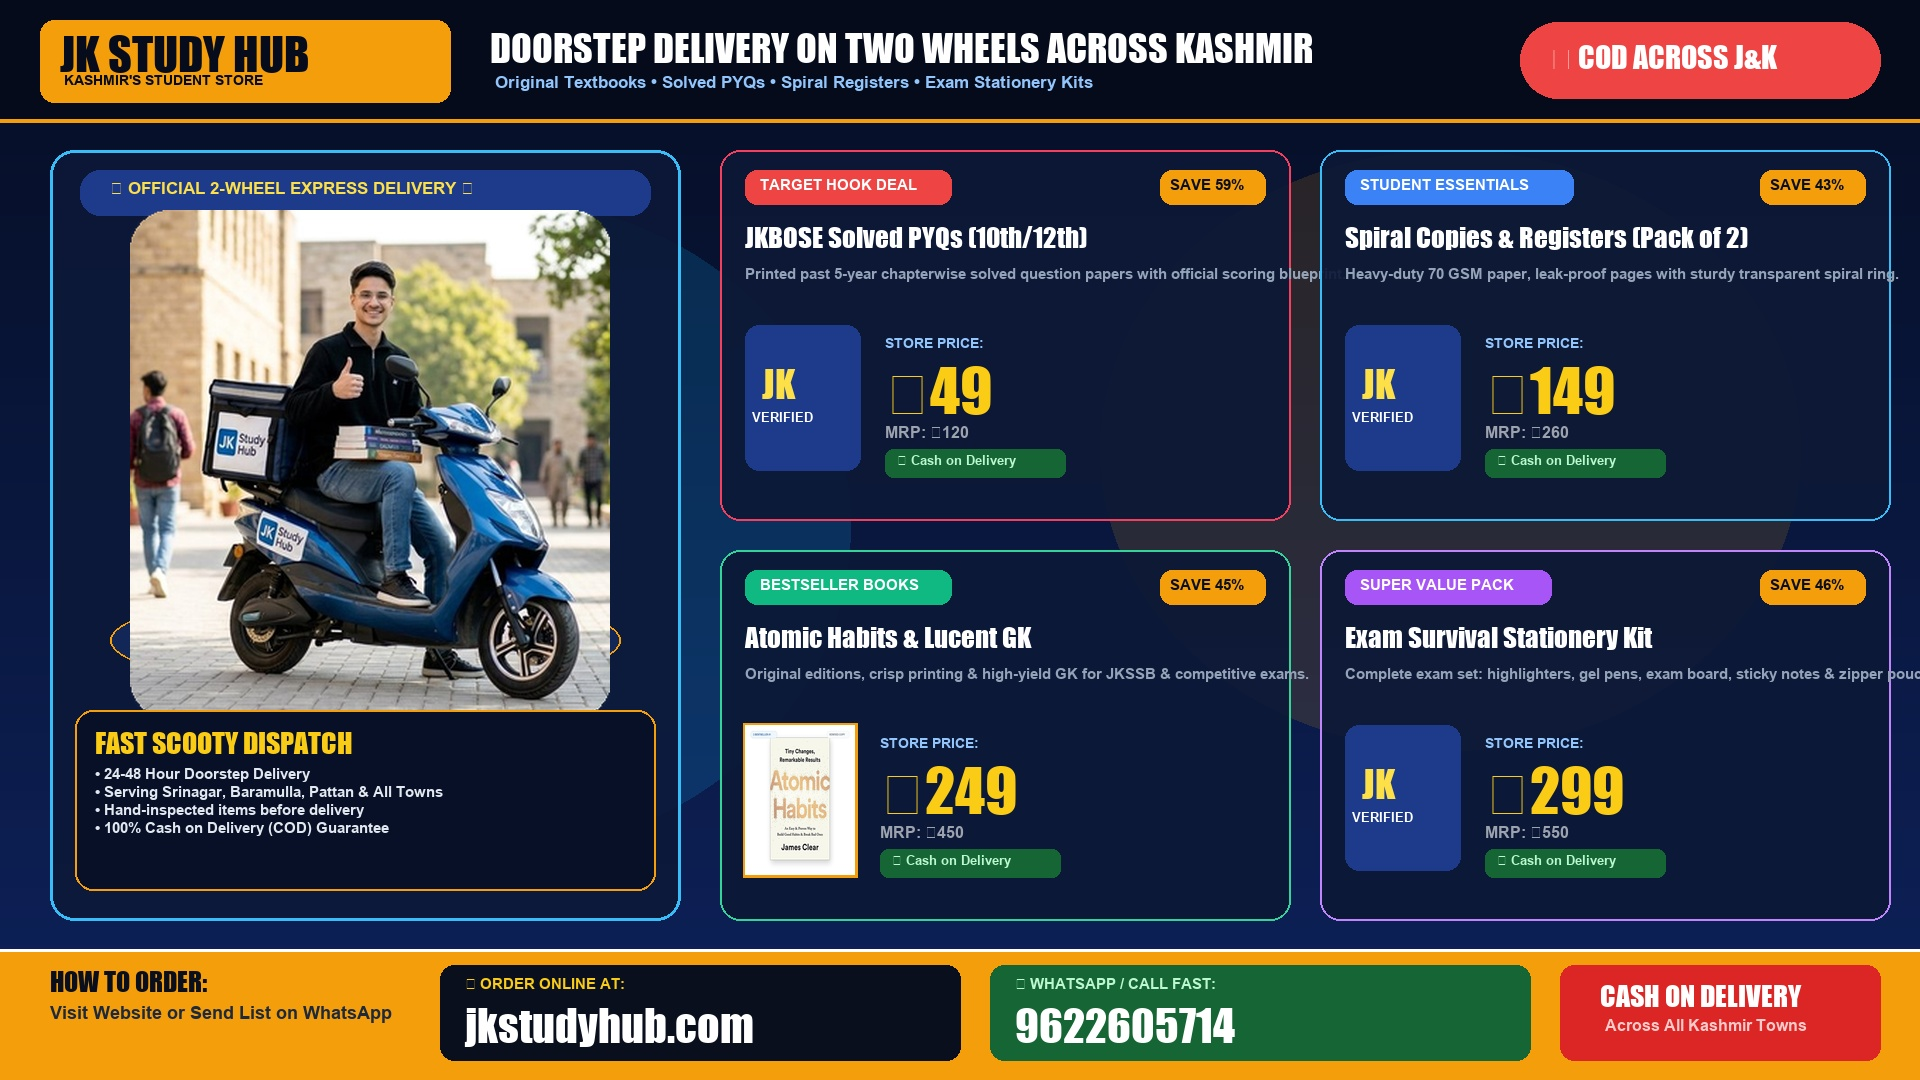
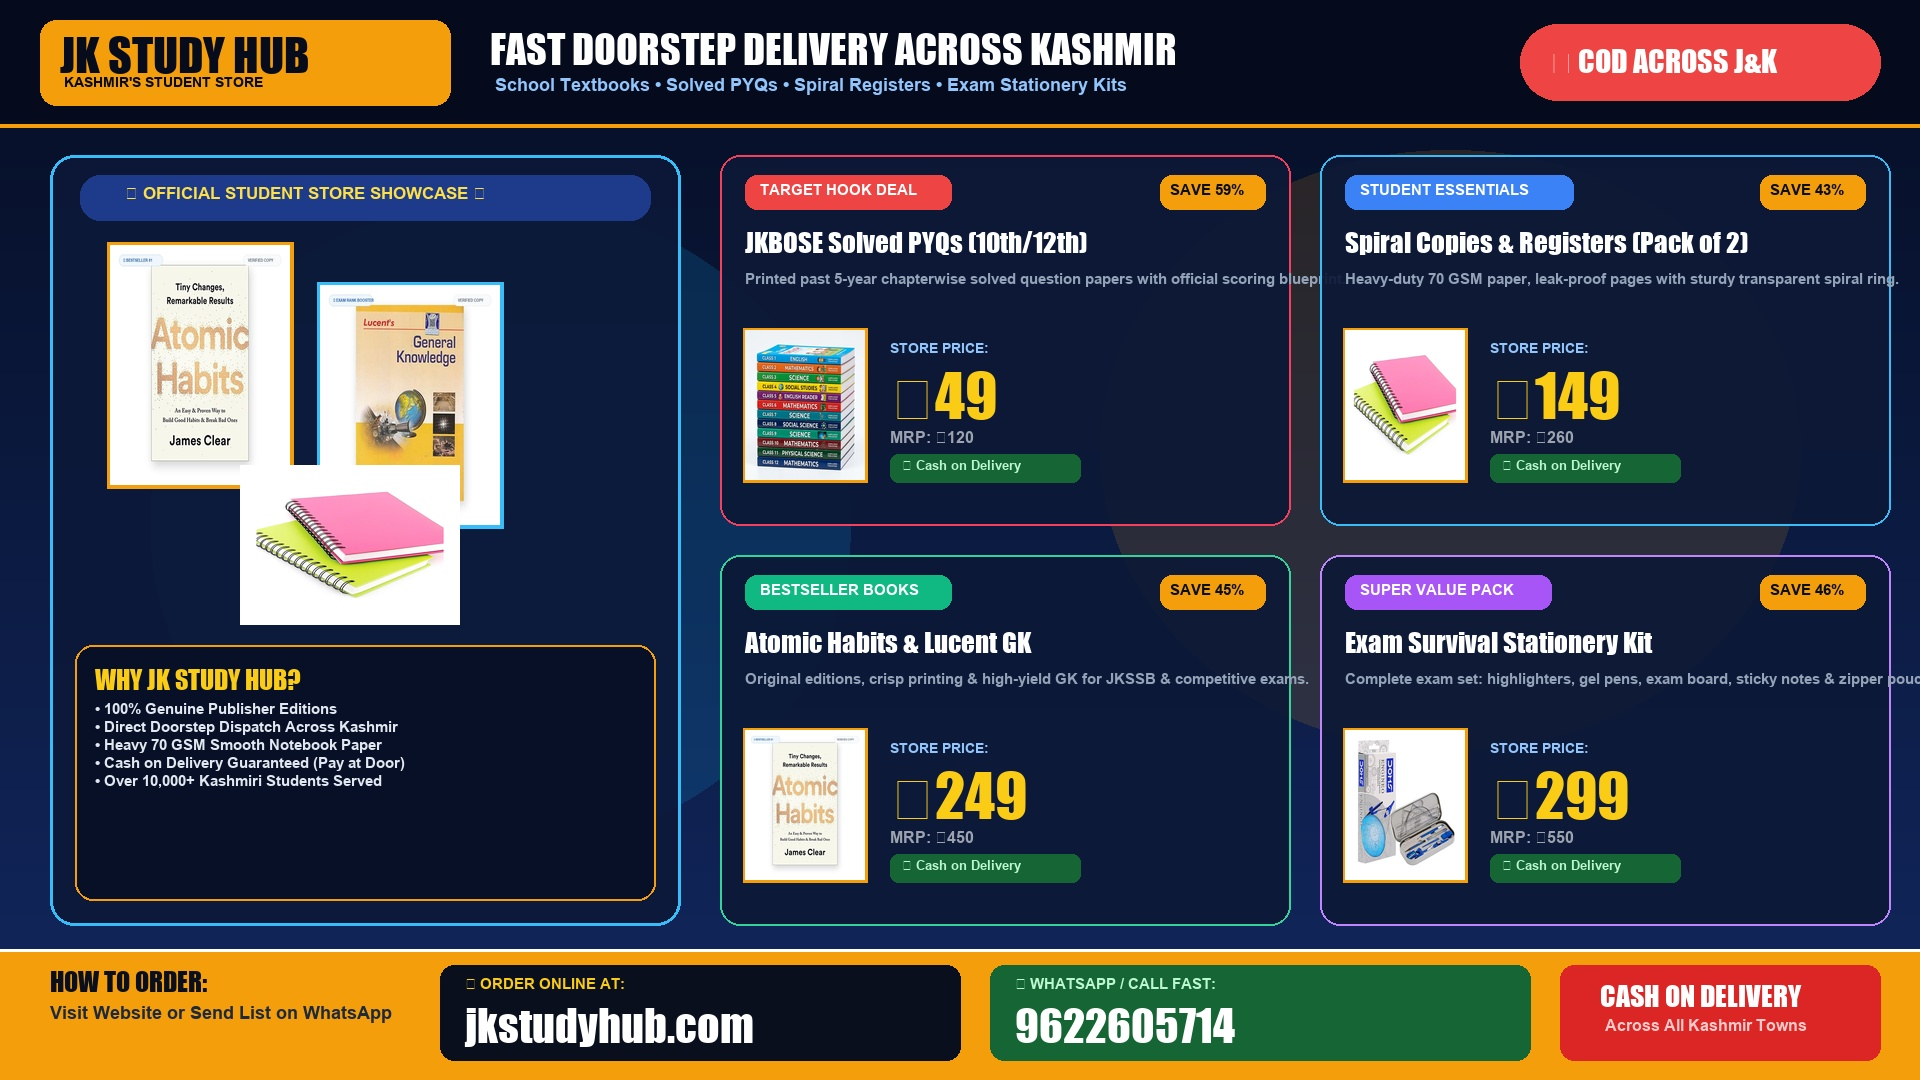
feat(branding): pure commercial product advertising posters in square and rectangular formats with zero human pictures

Changed region(s): [[0.0, 0.0, 1.0, 0.8556], [0.6875, 0.6722, 0.9688, 0.8556], [0.0312, 0.7944, 0.3438, 0.8556]]

diff --git a/poster.html b/poster.html
@@ -203,106 +203,54 @@
 
     <div class="poster-grid">
 
-      <!-- Poster 1: Square Format (1:1 Aspect Ratio) - No Human Photo -->
+      <!-- Poster 1: Square Format (1:1 Aspect Ratio) - Zero Human Photos -->
       <div class="poster-card">
         <div class="poster-card-header">
           <div class="poster-card-title">
-            <i class="fa-solid fa-shapes" style="color: #f59e0b;"></i> Square Marketing Poster (1:1 Ratio • No Photo)
+            <i class="fa-solid fa-square" style="color: #f59e0b;"></i> Square Commercial Advertisement (1:1 • No Human Picture)
           </div>
           <span class="badge-pill" style="background: rgba(245,158,11,0.15); border-color: rgba(245,158,11,0.4); color: #fbbf24;">
-            Instagram &amp; Square Flex Ready (1200&times;1200)
+            Instagram &amp; Square Flex Print (1200&times;1200)
           </span>
         </div>
         <div class="poster-img-wrap" style="background: #081026; display: flex; align-items: center; justify-content: center;">
-          <img src="images/jk-poster-square.jpg" alt="JK Study Hub Square Poster" style="max-height: 440px; width: auto; object-fit: contain;">
+          <img src="images/jk-poster-square.jpg" alt="JK Study Hub Square Commercial Advertisement" style="max-height: 480px; width: auto; object-fit: contain;">
         </div>
         <div class="poster-card-body">
           <div>
-            <div style="font-size: 14px; font-weight: 800; color: #fff;">Square Commercial Banner (3D Scooter &amp; Trigger Deals)</div>
+            <div style="font-size: 14px; font-weight: 800; color: #fff;">Pure Commercial Product &amp; Store Advertisement</div>
             <div style="font-size: 12.5px; color: #94a3b8; margin-top: 2px;">
-              Pure graphic design with 3D scooter delivery, zero human pictures, and 4 trigger deal cards (₹49, ₹149, ₹249, ₹299). Ideal for Instagram posts, WhatsApp catalog, and 4&times;4 ft square flex boards.
+              Featuring original textbooks, spiral copies, geometry box, and live store trigger deals (₹49, ₹149, ₹249, ₹299). Zero human pictures. Ideal for Instagram, WhatsApp catalog, and 4&times;4 ft square flex boards.
             </div>
           </div>
-          <a href="images/jk-poster-square.jpg" download="JK-Study-Hub-Square-Poster.jpg" class="btn btn-primary">
-            <i class="fa-solid fa-file-arrow-down"></i> Save Square Poster JPG
+          <a href="images/jk-poster-square.jpg" download="JK-Study-Hub-Square-Ad.jpg" class="btn btn-primary">
+            <i class="fa-solid fa-file-arrow-down"></i> Save Square Ad JPG
           </a>
         </div>
       </div>
 
-      <!-- Poster 2: Rectangular Billboard Format (16:9 Widescreen) - No Human Photo -->
+      <!-- Poster 2: Rectangular Billboard Format (16:9 Widescreen) - Zero Human Photos -->
       <div class="poster-card">
         <div class="poster-card-header">
           <div class="poster-card-title">
-            <i class="fa-solid fa-image" style="color: #38bdf8;"></i> Rectangular Billboard Flex Banner (16:9 Ratio • No Photo)
+            <i class="fa-solid fa-rectangle-ad" style="color: #38bdf8;"></i> Rectangular Billboard Flex Banner (16:9 • No Human Picture)
           </div>
           <span class="badge-pill" style="background: rgba(56,189,248,0.15); border-color: rgba(56,189,248,0.4); color: #38bdf8;">
             Outdoor Billboard Press File (1920&times;1080)
           </span>
         </div>
-        <div class="poster-img-wrap">
-          <img src="images/jk-poster-rect.jpg" alt="JK Study Hub Rectangular Flex Banner">
+        <div class="poster-img-wrap" style="background: #081026; display: flex; align-items: center; justify-content: center;">
+          <img src="images/jk-poster-rect.jpg" alt="JK Study Hub Rectangular Commercial Billboard">
         </div>
         <div class="poster-card-body">
           <div>
-            <div style="font-size: 14px; font-weight: 800; color: #fff;">Rectangular Roadside Billboard (3D Scooter Stage)</div>
+            <div style="font-size: 14px; font-weight: 800; color: #fff;">Roadside Commercial Billboard &amp; Glow Signboard</div>
             <div style="font-size: 12.5px; color: #94a3b8; margin-top: 2px;">
-              Wide commercial flex layout with 3D scooter dispatch center-left and 4 store trigger deals (₹49, ₹149, ₹249, ₹299). Perfect for 6&times;3.5 ft, 8&times;4.5 ft, and 10&times;6 ft roadside hoardings.
+              High-visibility wide advertising banner with student store products, genuine editions showcase, and Kashmir delivery guarantees. Ready for 6&times;3.5 ft, 8&times;4.5 ft, and 10&times;6 ft printing.
             </div>
           </div>
           <a href="images/jk-poster-rect.jpg" download="JK-Study-Hub-Rectangular-Billboard.jpg" class="btn btn-primary">
-            <i class="fa-solid fa-file-arrow-down"></i> Save Rectangular Banner JPG
-          </a>
-        </div>
-      </div>
-
-      <!-- Poster 3: SpeedyKart Demo Style Scooty Action Edition -->
-      <div class="poster-card">
-        <div class="poster-card-header">
-          <div class="poster-card-title">
-            <i class="fa-solid fa-motorcycle" style="color: #10b981;"></i> SpeedyKart-Style Scooty Action Banner
-          </div>
-          <span class="badge-pill" style="background: rgba(16,185,129,0.15); border-color: rgba(16,185,129,0.4); color: #6ee7b7;">
-            Website Scooty Edition
-          </span>
-        </div>
-        <div class="poster-img-wrap">
-          <img src="images/jk-flex-banner.jpg" alt="JK Study Hub Scooty Action Banner">
-        </div>
-        <div class="poster-card-body">
-          <div>
-            <div style="font-size: 14px; font-weight: 800; color: #fff;">Website Scooty Photo + SpeedyKart Trigger Bubbles</div>
-            <div style="font-size: 12.5px; color: #94a3b8; margin-top: 2px;">
-              Dynamic layout combining the website's scooter photo with glowing quick-commerce deal bubbles.
-            </div>
-          </div>
-          <a href="images/jk-flex-banner.jpg" download="JK-Study-Hub-Scooty-Action-Banner.jpg" class="btn btn-secondary">
-            <i class="fa-solid fa-file-arrow-down"></i> Save Scooty Action JPG
-          </a>
-        </div>
-      </div>
-
-      <!-- Poster 4: Real Outdoor Standee Display Mockup -->
-      <div class="poster-card">
-        <div class="poster-card-header">
-          <div class="poster-card-title">
-            <i class="fa-solid fa-easel" style="color: #a855f7;"></i> Real Outdoor Standee Display Mockup
-          </div>
-          <span class="badge-pill">
-            Social Media &amp; WhatsApp Story Ready
-          </span>
-        </div>
-        <div class="poster-img-wrap">
-          <img src="images/jk-poster-standee.jpg" alt="JK Study Hub Standee Display Mockup">
-        </div>
-        <div class="poster-card-body">
-          <div>
-            <div style="font-size: 14px; font-weight: 800; color: #fff;">Outdoor Standee / Easel Mockup</div>
-            <div style="font-size: 12.5px; color: #94a3b8; margin-top: 2px;">
-              Ready for sharing on WhatsApp status, Instagram stories, tuition centers, and school noticeboards.
-            </div>
-          </div>
-          <a href="images/jk-poster-standee.jpg" download="JK-Study-Hub-Standee-Mockup.jpg" class="btn btn-secondary">
-            <i class="fa-solid fa-file-arrow-down"></i> Save Standee Mockup
+            <i class="fa-solid fa-file-arrow-down"></i> Save Rectangular Ad JPG
           </a>
         </div>
       </div>
